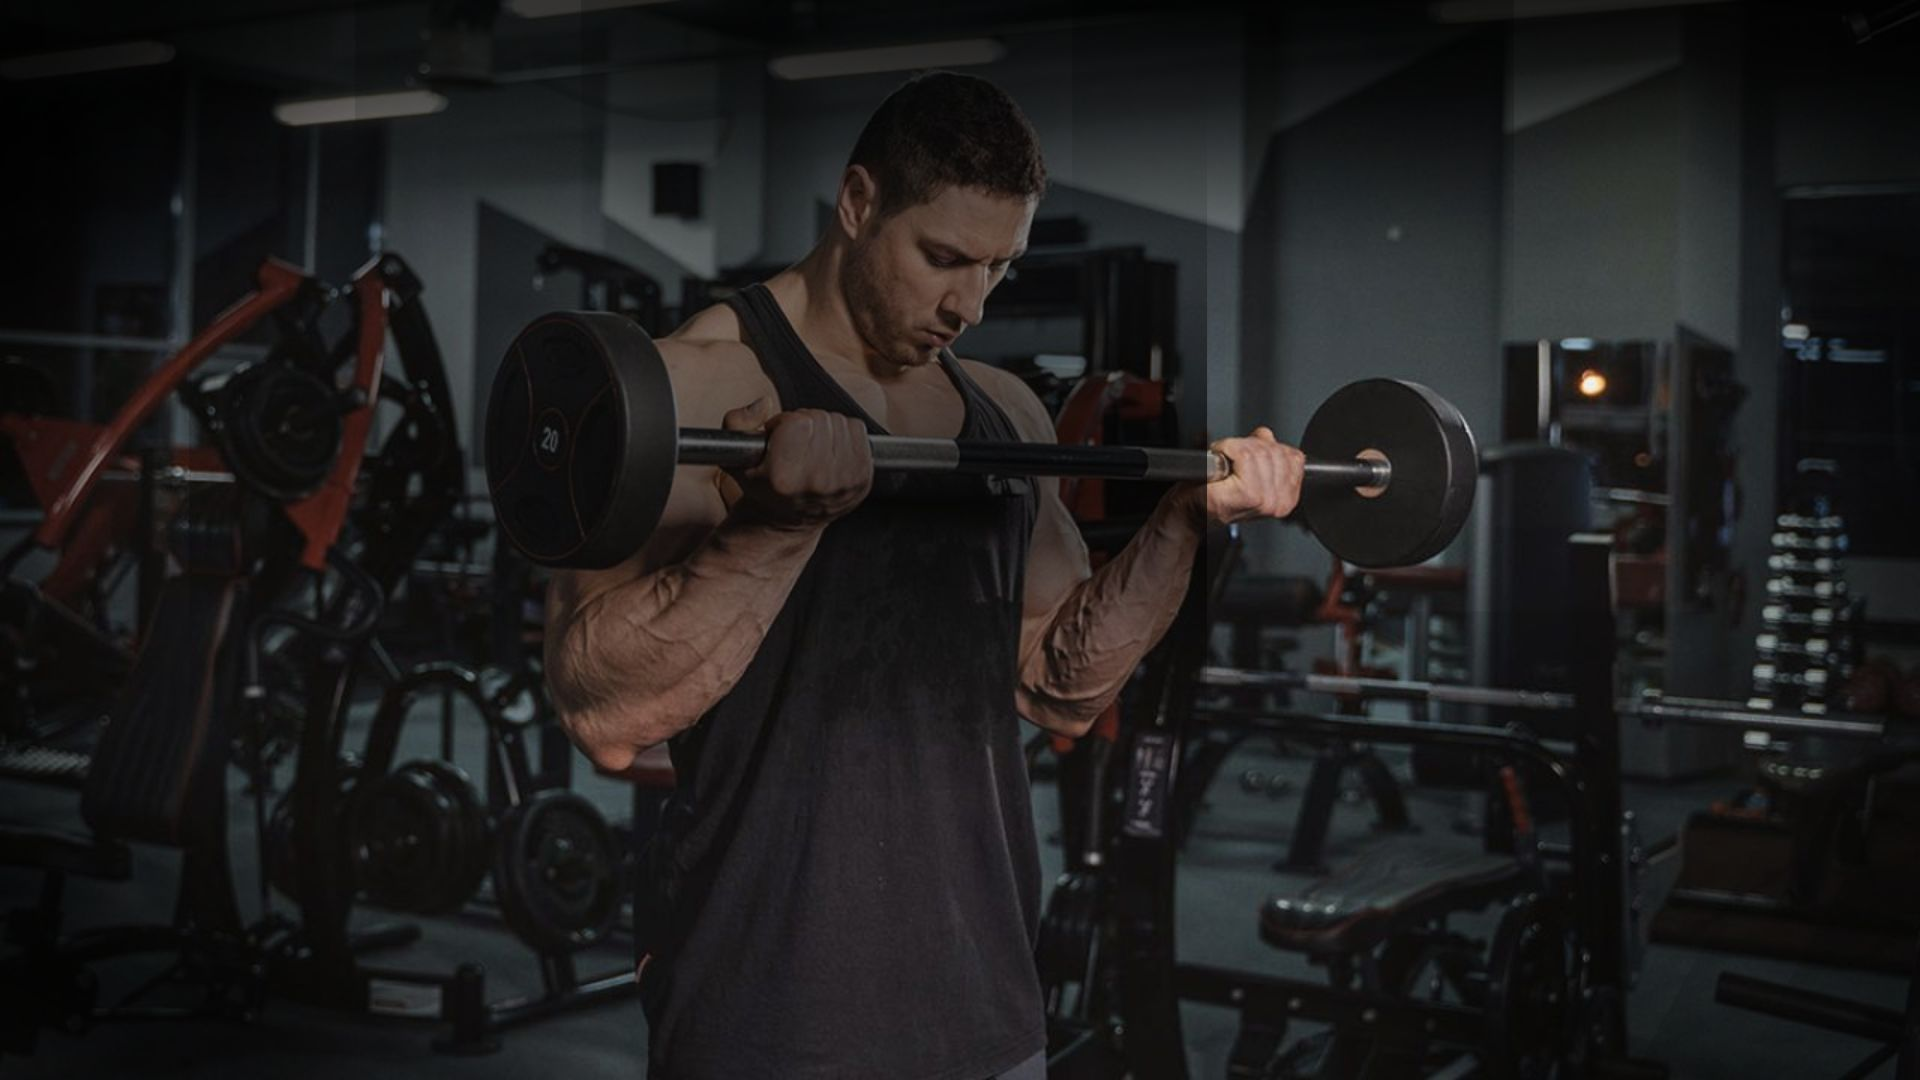
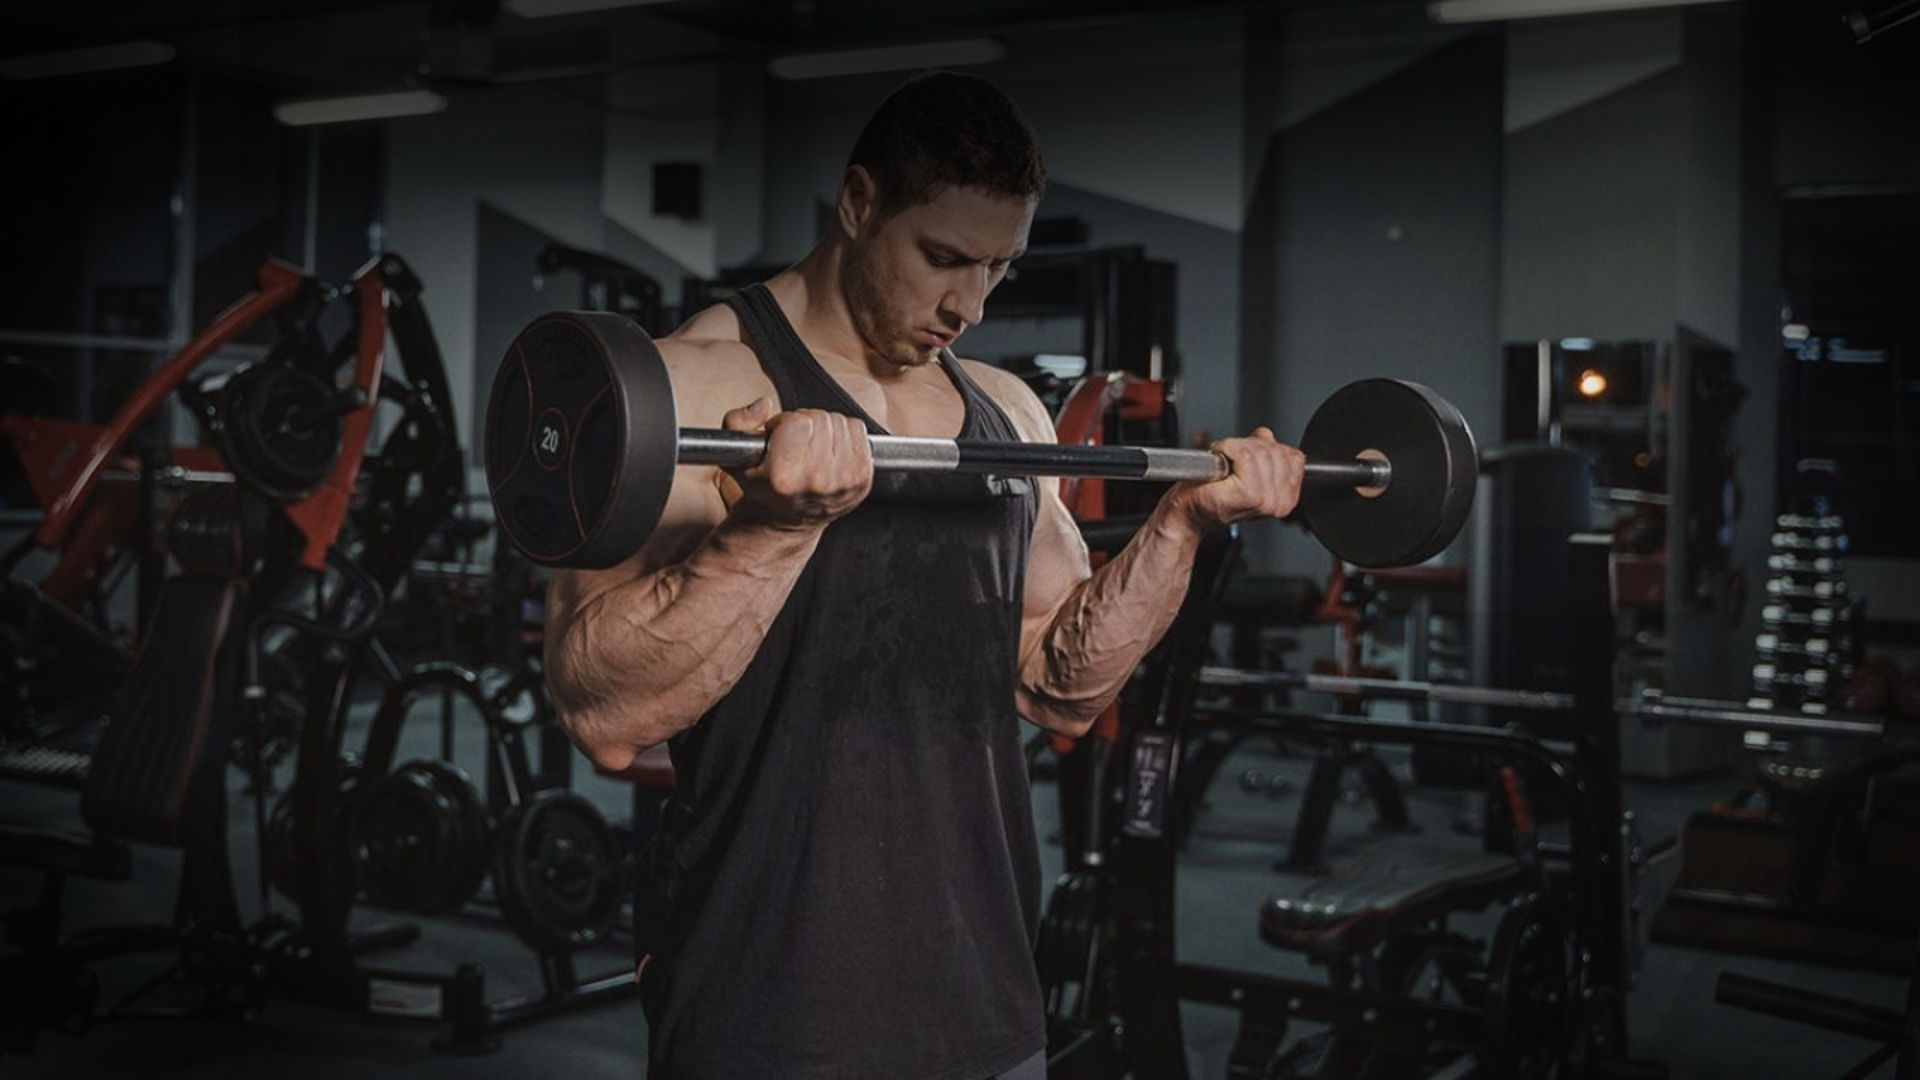
created new block1 with css and changed bg img

diff --git a/index.html b/index.html
@@ -71,6 +71,12 @@
         </div>
       </nav>
 
+    <div class="block block1 vh-100">
+        <div class="container">
+            
+        </div>
+    </div>
+
     <footer 
     class="bg-dark p-4 text-center
     px-md-5">

diff --git a/css/style.css b/css/style.css
@@ -2,3 +2,5 @@
 @import url(bootstrap/bootstrap-reboot.css);
 @import url(bootstrap/bootstrap.css);
 @import url(bootstrap/bootstrap-icons.css);
+
+@import "block1.css";

diff --git a/css/block1.css b/css/block1.css
@@ -1,0 +1,4 @@
+.block1 {
+    background-image: url(../img/promo_bg.jpg);
+    background-size: cover;
+}
